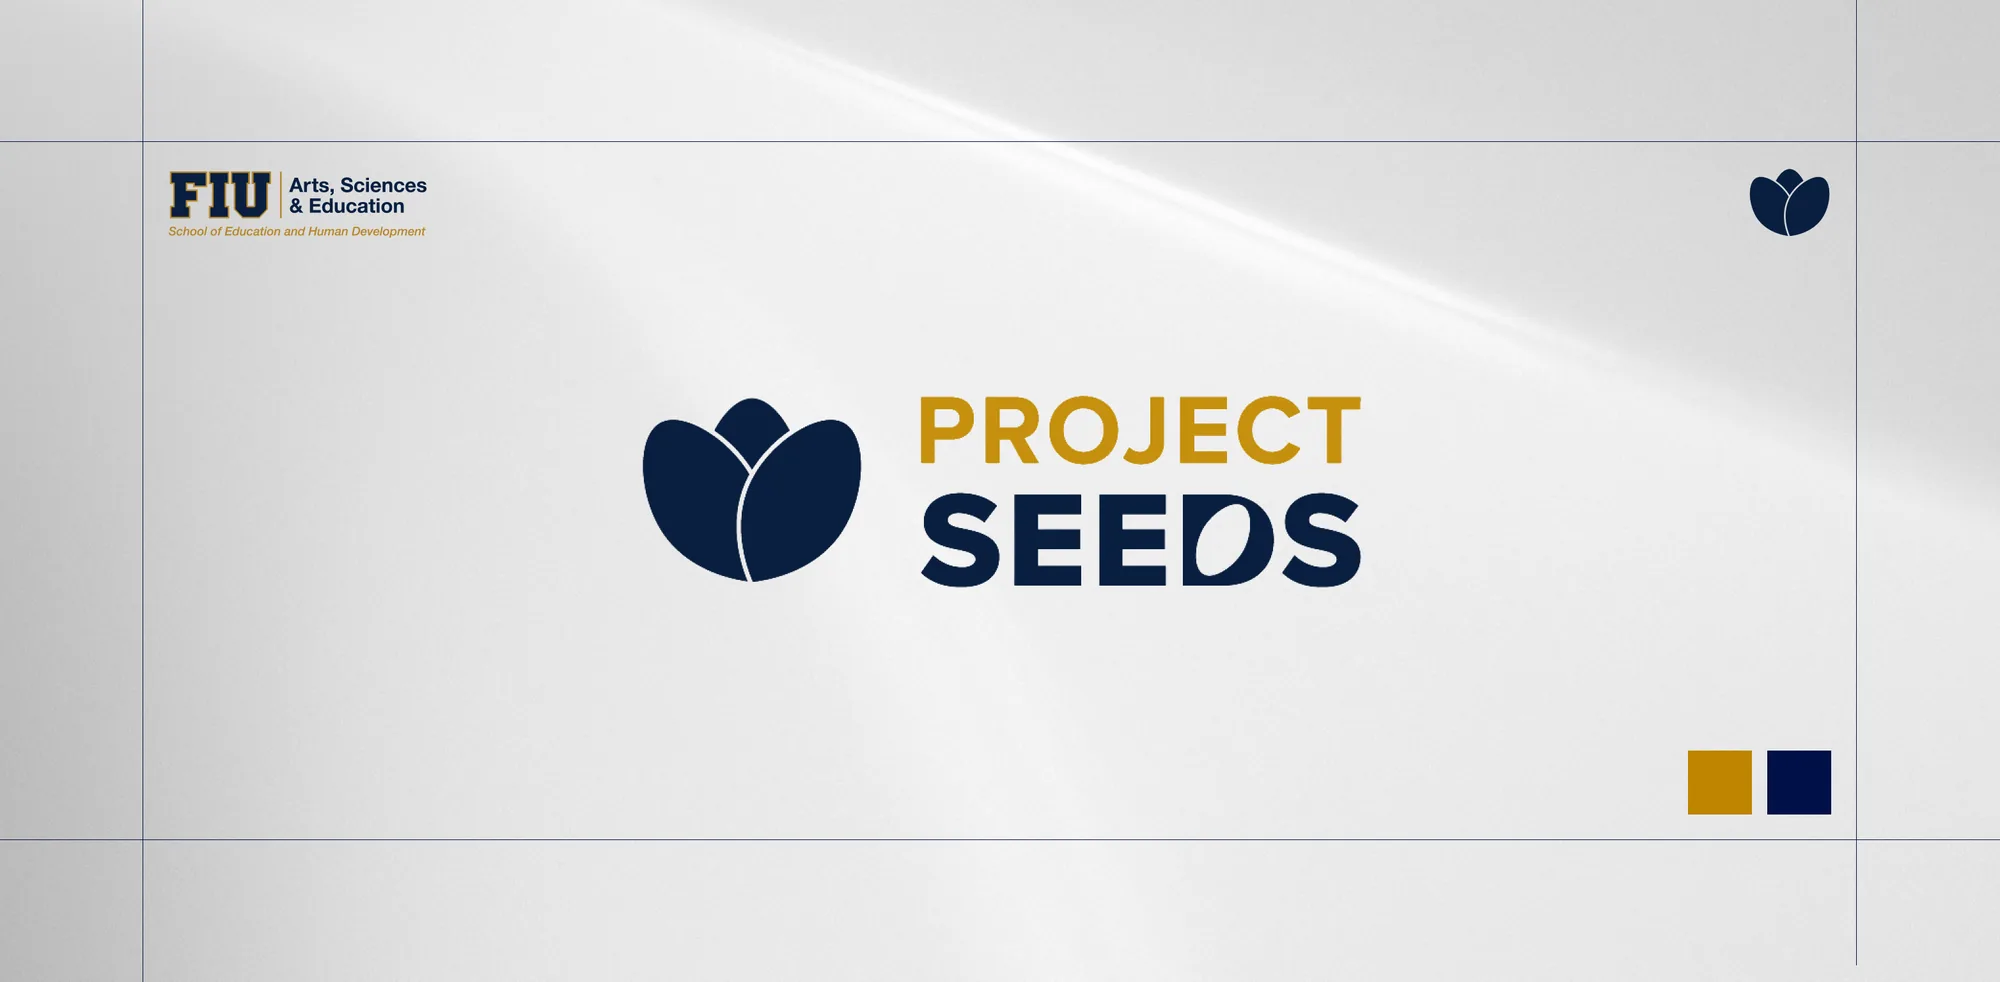
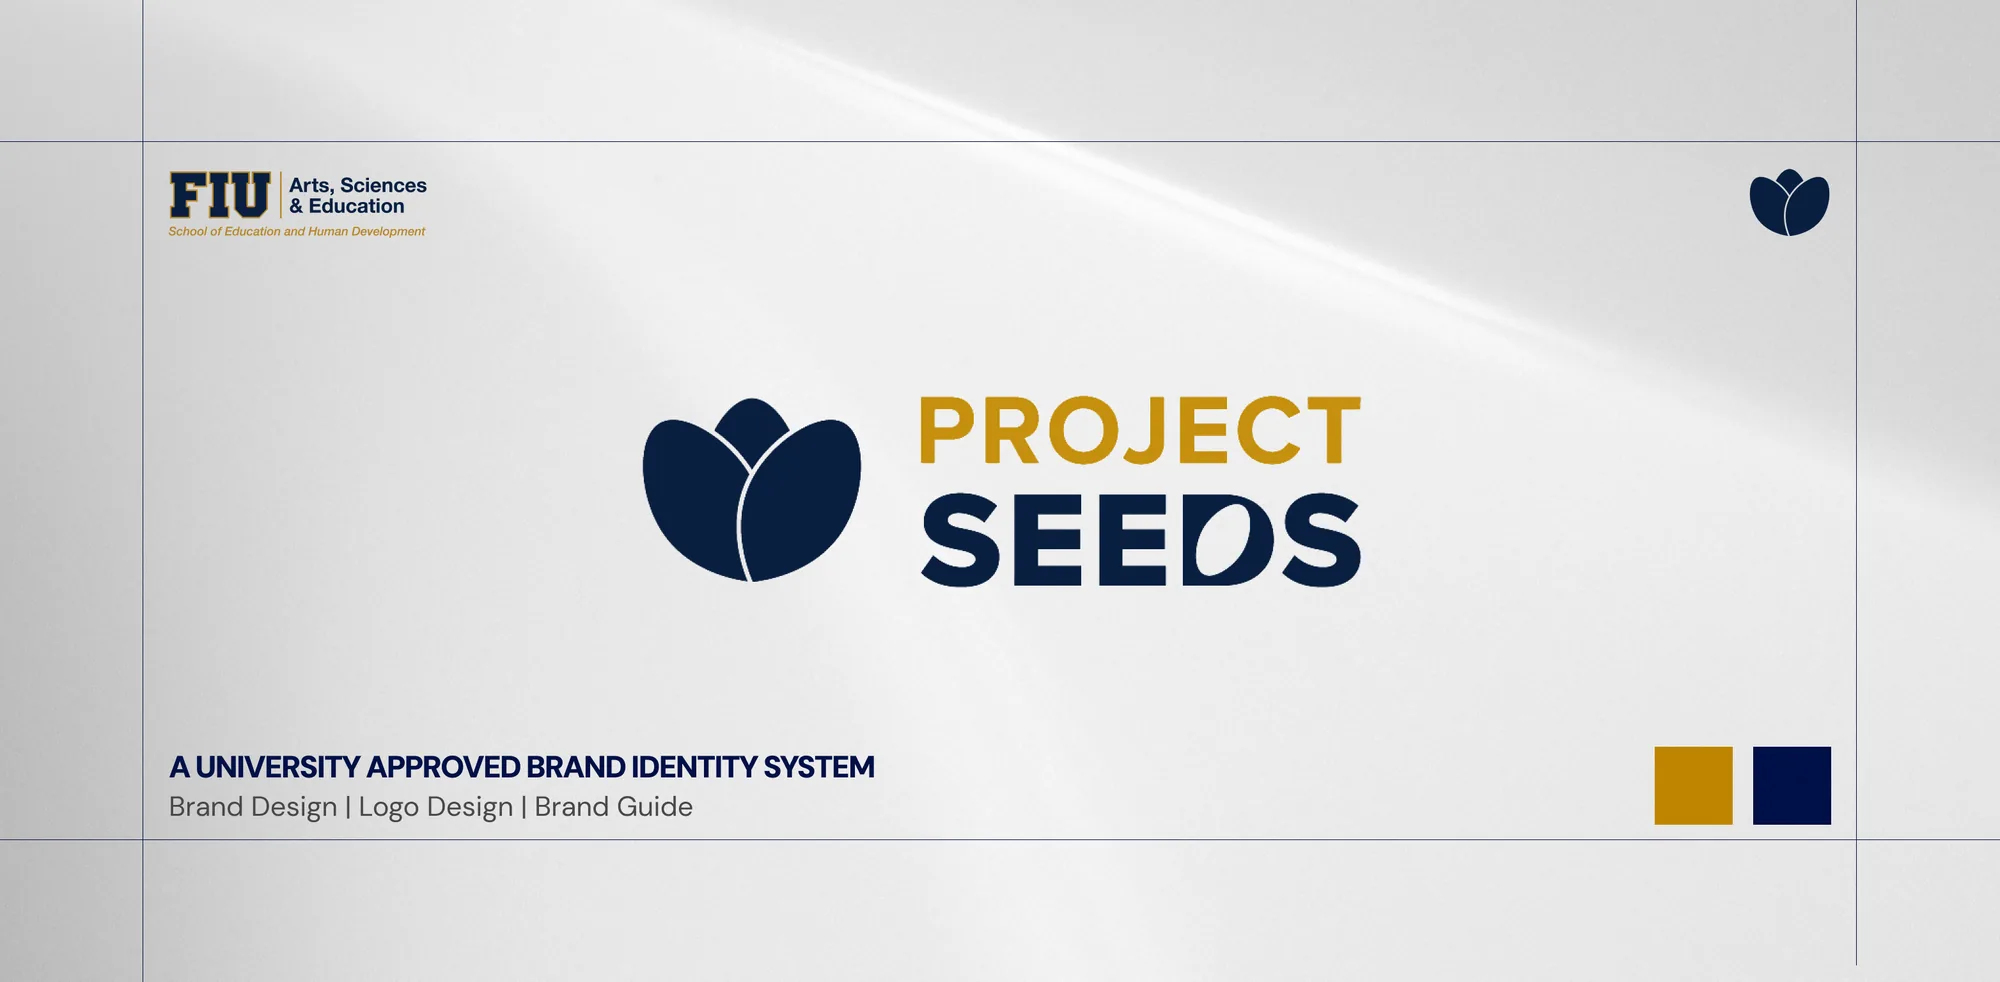
feat: latest Project SEEDS cover (identity system tagline)

Changed region(s): [[0.062, 0.7637, 0.434, 0.8554], [0.806, 0.7332, 0.93, 0.8554]]

diff --git a/src/app/data/caseStudies/projectSeeds.tsx b/src/app/data/caseStudies/projectSeeds.tsx
@@ -27,7 +27,7 @@ export const projectSeeds: CaseStudy = {
     // the cover's own proportions, so nothing is cropped
     ratio: '2000/982',
     src: '/img/works/project-seeds-brand-guidelines.webp',
-    alt: 'The Project SEEDS logo, a navy seed mark beside the gold and navy wordmark, with the FIU Arts, Sciences & Education lockup and gold and navy colour swatches.',
+    alt: 'The Project SEEDS logo, a navy seed mark beside the gold and navy wordmark, with the FIU Arts, Sciences & Education lockup, the line "A university approved brand identity system", and gold and navy colour swatches.',
   },
   overview: (
     <>
